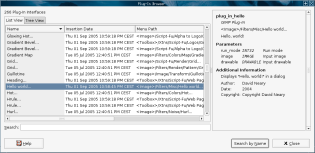
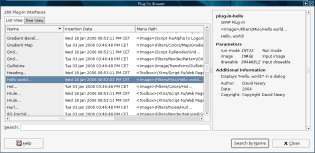
writing-a-plug-in/1/hello.c writing-a-plug-in/1/plug-in-details.png
2006-01-18  Karine Delvare  <kdelvare@nerim.net>

  * writing-a-plug-in/1/hello.c
  * writing-a-plug-in/1/plug-in-details.png
  * writing-a-plug-in/1/plug-in-details-small.png
  * writing-a-plug-in-1.xml: added complete plug-in code and removed extra
  slash.

diff --git a/writing-a-plug-in/1/hello.c b/writing-a-plug-in/1/hello.c
@@ -1,0 +1,84 @@
+#include <libgimp/gimp.h>
+
+static void query (void);
+static void run   (const gchar      *name,
+                   gint              nparams,
+                   const GimpParam  *param,
+                   gint             *nreturn_vals,
+                   GimpParam       **return_vals);
+
+GimpPlugInInfo PLUG_IN_INFO =
+{
+  NULL,
+  NULL,
+  query,
+  run
+};
+
+MAIN()
+
+static void query (void)
+{
+  static GimpParamDef args[] =
+  {
+    {
+      GIMP_PDB_INT32,
+      "run-mode",
+      "Run mode"
+    },
+    {
+      GIMP_PDB_IMAGE,
+      "image",
+      "Input image"
+    },
+    {
+      GIMP_PDB_DRAWABLE,
+      "drawable",
+      "Input drawable"
+    }
+  };
+
+  gimp_install_procedure (
+    "plug-in-hello",
+    "Hello, world!",
+    "Displays \"Hello, world!\" in a dialog",
+    "David Neary",
+    "Copyright David Neary",
+    "2004",
+    "_Hello world...",
+    "RGB*, GRAY*",
+    GIMP_PLUGIN,
+    G_N_ELEMENTS (args), 0,
+    args, NULL);
+
+  gimp_plugin_menu_register ("plug-in-hello",
+                             "<Image>/Filters/Misc");
+}
+
+static void run (const gchar      *name,
+                 gint              nparams,
+                 const GimpParam  *param,
+                 gint             *nreturn_vals,
+                 GimpParam       **return_vals)
+{
+  static GimpParam values[1];
+  GimpPDBStatusType status = GIMP_PDB_SUCCESS;
+  GimpRunMode run_mode;
+
+  /* Setting mandatory output values */
+  *nreturn_vals = 1;
+  *return_vals = values;
+
+  values[0].type = GIMP_PDB_STATUS;
+  values[0].data.d_status = status;
+
+  /* Getting run_mode - we won't display a dialog if 
+   * we are in NONINTERACTIVE mode */
+  run_mode = param[0].data.d_int32;
+
+  if (run_mode != GIMP_RUN_NONINTERACTIVE)
+    g_message("Hello, world!\n");
+
+  return;
+}
+
